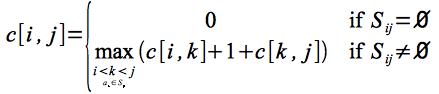
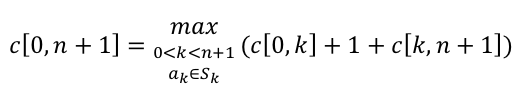
update lecture 14
update lecture 14

diff --git a/lectures/lecture14.md b/lectures/lecture14.md
@@ -36,6 +36,8 @@ Find a *maximal* set of compatible activies, e.g. scheduling the most activities
 
 Without loss of generality, we will assume that the *a*'s are sorted in non-decreasing order of finishing times, i.e. *f*<sub>1</sub> ≤ *f*<sub>2</sub> ≤ ... ≤ *f*<sub>n</sub>.
 
+Furthermore, we can define boundary activities *a*<sub>0</sub> such that *f*<sub>0</sub> = 0, and *a*<sub>n+1</sub> such that *s*<sub>n+1</sub> = *f*<sub>n</sub>.
+
 Define the set *S*<sub>ij</sub>
 
 > *S*<sub>ij</sub> = {*a*<sub>k</sub> ∈ *S* : *f*<sub>i</sub> ≤ *s*<sub>k</sub> \< *f*<sub>k</sub> ≤ *s*<sub>j</sub>}
@@ -52,15 +54,21 @@ where *A*<sub>ik</sub> and *A*<sub>kj</sub> must also be optimal (otherwise if w
 
 *Step 2: Define the recursive solution (top-down)*
 
-Let *c[i,j]* = \|*A*<sub>ij</sub>\|, then
+Let *c[0,n+1]* = \|*A*<sub>0,n+1</sub>\|, i.e. *c* is the maximal number of compatible activities that start *after* *a*<sub>0</sub> and end *before* *a*<sub>n+1</sub>. Then
 
 > ![image](images/lecture14/actselformula.png)
 
-i.e. compute *c[i,j]* for each *k* = *i*+1, ..., *j*-1 and select the max.
+i.e. compute *c[0,n+1]* for each *k* = 1, ..., n and select the max.
 
 *Step 3: Compute the maximal set size (bottom-up)*
 
-Construct an *n* x *n* table which can be done in polynomial time since clearly for each *c[i,j]* we will examine no more than *n* subproblems giving an upper bound on the worst case of O(*n*<sup>3</sup>).
+Substituting *i* for 0 and *j* for *n+1* gives 
+
+> ![image](images/lecture14/actselformula2.png)
+
+with *c[i,j]* = 0 for *i* ≥ *j*.
+
+Hence, construct an *n* x *n* table (which is upper triangular) that can be done in polynomial time since clearly for each *c[i,j]* we will examine no more than *n* subproblems giving an upper bound on the worst case of O(*n*<sup>3</sup>).
 
 **BUT WE DON'T NEED TO DO ALL THAT WORK!** Instead at each step we could simply select (*greedily*) the activity that finishes first and is compatible with the previous activities. Intuitively this choice leaves the most time for other future activities.
 

diff --git a/assign/assign04.md b/assign/assign04.md
@@ -1,0 +1,41 @@
+---
+layout: default
+title: "Assignment 4"
+---
+
+**Due: Wednesday, Mar 25th in class** Late assignments will be penalized 20% per day.
+
+Book Questions from *Introduction to Algorithms - 3rd ed.*
+==========================================================
+
+15.1-2
+
+15-4 (10 points)
+
+16.1-4 (10 points)
+
+B.4-1
+
+*Hints:*
+
+> 15.1-2 - Consider the following rod pricing table
+>
+> length |  1  |  2  |  3  |  4  |
+> ------ | --- | --- | --- | --- |
+> price  |  1  | 20  | 33  | 36  |
+>
+> Compute the density *p*<sub>i</sub>/*i* for each length, determine the greedy solution and compare it to the optimal solution.
+>
+> 15-4 - This problem is *tricky* (as if any dynamic programming problem isn't). To start, define a quantity *e(i,j)* that tracks the number of extra spaces at the end of a line as
+>
+> ![image](images/assign06/extras.png)
+>
+> Then the cost of a line *lc(i,j)* is given by
+>
+> ![image](images/assign06/linecost.png)
+>
+> Let the optimal cost of the first *j* words be *c(j)* and define a recursion that represents the optimality.
+>
+> 16.1-4 - We have discussed the activity scheduling problem for the case of maximizing the number of activities for a *single lecture hall*. Consider how to use this strategy to schedule *each* activity in the *minimum* number of halls. There is a straightforward approach which produces an O(n<sup>2</sup>). Try to find a **better** solution utiizing a stack and priority queue to solve the problem in O(n lg n) time (consider sorting both start *and* finish times). Remember you must *prove* (at least intuitively) that your approach produces an *optimal* solution.
+>
+> B.4-1 - Represent each handshake as an edge in a graph. Consider the adjacency list representation for the graph and the total number of edges in *all* the lists.

diff --git a/assign/index.md b/assign/index.md
@@ -11,6 +11,7 @@ This page links to assignment descriptions.
 > Feb 10   | [Assignment 2](../assign/assign02.html)                  | [Assignment 2 Solutions](../assign/sol/assign02sol.pdf) |
 > Feb 24   | [Assignment 3](../assign/assign03.html)                  | [Assignment 3 Solutions](../assign/sol/assign03sol.pdf) |
 > Mar 10   | [Empirical Comparison Report](../assign/emp_comp.html)   | **Upload .pdf to** [Marmoset](https://cs.ycp.edu/marmoset/login) |
+> Mar 25   | [Assignment 4](../assign/assign04.html)                  |  |
 
 <!--
 > Mar 23   | [Assignment 4](../assign/assign04.html)                  |  |
